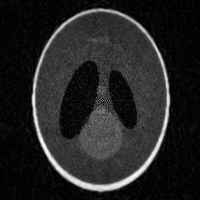
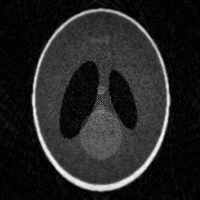
Simulate results for finer grid

diff --git a/scripts/MAP2D.m b/scripts/MAP2D.m
@@ -15,10 +15,10 @@ max_angle_err = 1;
 max_shift_err = 0;
 resolution_angle = 1;
 resolution_space = 1;
-no_of_iterations = 3;
+no_of_iterations = 5;
 mask=ones(size(P));
 n = size(P, 1);
-L_pad = 214; 
+L_pad = 3032; 
 
 % Things to write in the observation file.
 theta_to_write = zeros(10, num_theta);
@@ -113,7 +113,8 @@ weights = ones(size(f_image_estimate));
 for q=1:no_of_iterations
     % Calculate probability for each orientation for each projection.
     prob_matrix = calc_prob_for_each_orientation(f_image_estimate,...
-        f_projections, theta_estimate, first_estimate_theta, first_estimate_shifts, shift_estimate,...
+        f_projections, theta_estimate, first_estimate_theta,...
+        first_estimate_shifts, shift_estimate,...
         noise_estimate, projection_parameters, prior_parameters);
 
     % Initialize space for correct theta and shifts.
@@ -131,22 +132,24 @@ for q=1:no_of_iterations
             y*resolution_space - resolution_space - max_shift_err;
     end
 
+    % Divide the projections with the noise variance.
     denoised_f_projections = ...
         bsxfun(@rdivide, f_projections, (noise_estimate.^2));
     normalization_f_denom = ...
         bsxfun(@rdivide, ones(size(f_projections)), (noise_estimate.^2));
 
+    % Initialize the estimates.
     reconstructed_f_numerator = zeros(size(fourier_radial));
     recons_f_denom = zeros(size(fourier_radial));
 
     % Start estimating the image.
-    parfor i=1:size(prob_matrix, 1)
+    for i=1:size(prob_matrix, 1)
         probabilities = squeeze(prob_matrix(i, :, :))';
         prob_f_proj = bsxfun(@mtimes, denoised_f_projections, probabilities);
         prob_f_noise = bsxfun(@mtimes, normalization_f_denom, probabilities);
 
-        current_theta = ...
-            mod(theta_estimate  + i*resolution_angle - resolution_angle - max_angle_err, 180);
+        current_theta = mod(theta_estimate  + i*resolution_angle...
+            - resolution_angle - max_angle_err, 180);
 
         reconstructed_f_numerator = reconstructed_f_numerator +...
             backproject_fourier_alternate(prob_f_proj, current_theta);
@@ -156,18 +159,21 @@ for q=1:no_of_iterations
 
     reconstructed_f_numerator = reconstructed_f_numerator(:);
     recons_f_denom = recons_f_denom(:);
-
+    
+    % Update the weights on the denominator.
     recons_f_denom_prior = recons_f_denom + 1./prior_variance;
-    w = kaiser(size(f_image_estimate, 1), 5);
+    w = kaiser(size(f_image_estimate, 1), 50);
     recons_f_denom_weighted = ...
-        weights./conv((recons_f_denom_prior.*weights), w, 'same');
+        weights./cconv((recons_f_denom_prior.*weights), w, size(f_image_estimate, 1));
     reconstructed_f_image = ...
         reconstructed_f_numerator.*recons_f_denom_weighted.*1e5;
     reconstructed_f_image = ...
         reshape(reconstructed_f_image, [output_size, output_size]);
 
+    % Construct the image for this iteration.
     reconstructed_image = Ifft2_2_Img(reconstructed_f_image, L_pad);
 
+    % Display the error for this iteration.
     disp(norm(reconstructed_image - P));
 
     % Write the image constructed in this reconstruction.
@@ -189,7 +195,7 @@ for q=1:no_of_iterations
     end
     estimated_noise_vector = sqrt(estimated_noise_vector);
     noise_estimate = mean(estimated_noise_vector(:));
-    noise_estimate = repmat(noise_estimate, size(f_projections, 1), 1);
+    noise_estimate = repmat(noise_estimate, size(f_projections, 1), 1)*0.2;
 
     f_image_estimate = reconstructed_f_image(:);
     theta_estimate = correct_theta;

diff --git a/scripts/backproject_fourier_alternate.m b/scripts/backproject_fourier_alternate.m
@@ -1,9 +1,9 @@
 function fourier_radial=backproject_fourier_alternate(f_p, prj_angles)
 	% Resolution of the grid.
-	resolution_grid = 100;
+	resolution_grid = 1000;
 
 	% The entire array of angles. 
-	all_prj_angles = 0:179;
+	all_prj_angles = 0:0.1:179.9;
 
 	% Length of the projections.
 	nfp=length(f_p(:,1));
@@ -36,8 +36,10 @@ function fourier_radial=backproject_fourier_alternate(f_p, prj_angles)
 
 	for j=1:size(prj_angles, 2)
 		for i=1:nfp
-			fourier_radial(probe_y(i, j), probe_x(i, j)) = fourier_radial(probe_y(i, j), probe_x(i, j)) + f_p(i, j);
-			count_matrix(probe_y(i, j), probe_x(i, j)) = count_matrix(probe_y(i, j), probe_x(i, j)) + 1;
+			fourier_radial(probe_y(i, j), probe_x(i, j)) = ...
+                fourier_radial(probe_y(i, j), probe_x(i, j)) + f_p(i, j);
+			count_matrix(probe_y(i, j), probe_x(i, j)) = ...
+                count_matrix(probe_y(i, j), probe_x(i, j)) + 1;
 		end
 	end
 

diff --git a/scripts/project_fourier_alternate.m b/scripts/project_fourier_alternate.m
@@ -1,9 +1,9 @@
 function projection = project_fourier_alternate(fourier_radial, probe_angle, proj_length)
 	% Resolution of the grid.
-	resolution_grid = 100;
+	resolution_grid = 1000;
 
 	% The entire array of angles. 
-	all_prj_angles = 0:179;
+	all_prj_angles = 0:0.5:179.5;
 
 	% Length of the projections.
 	nfp = proj_length;
